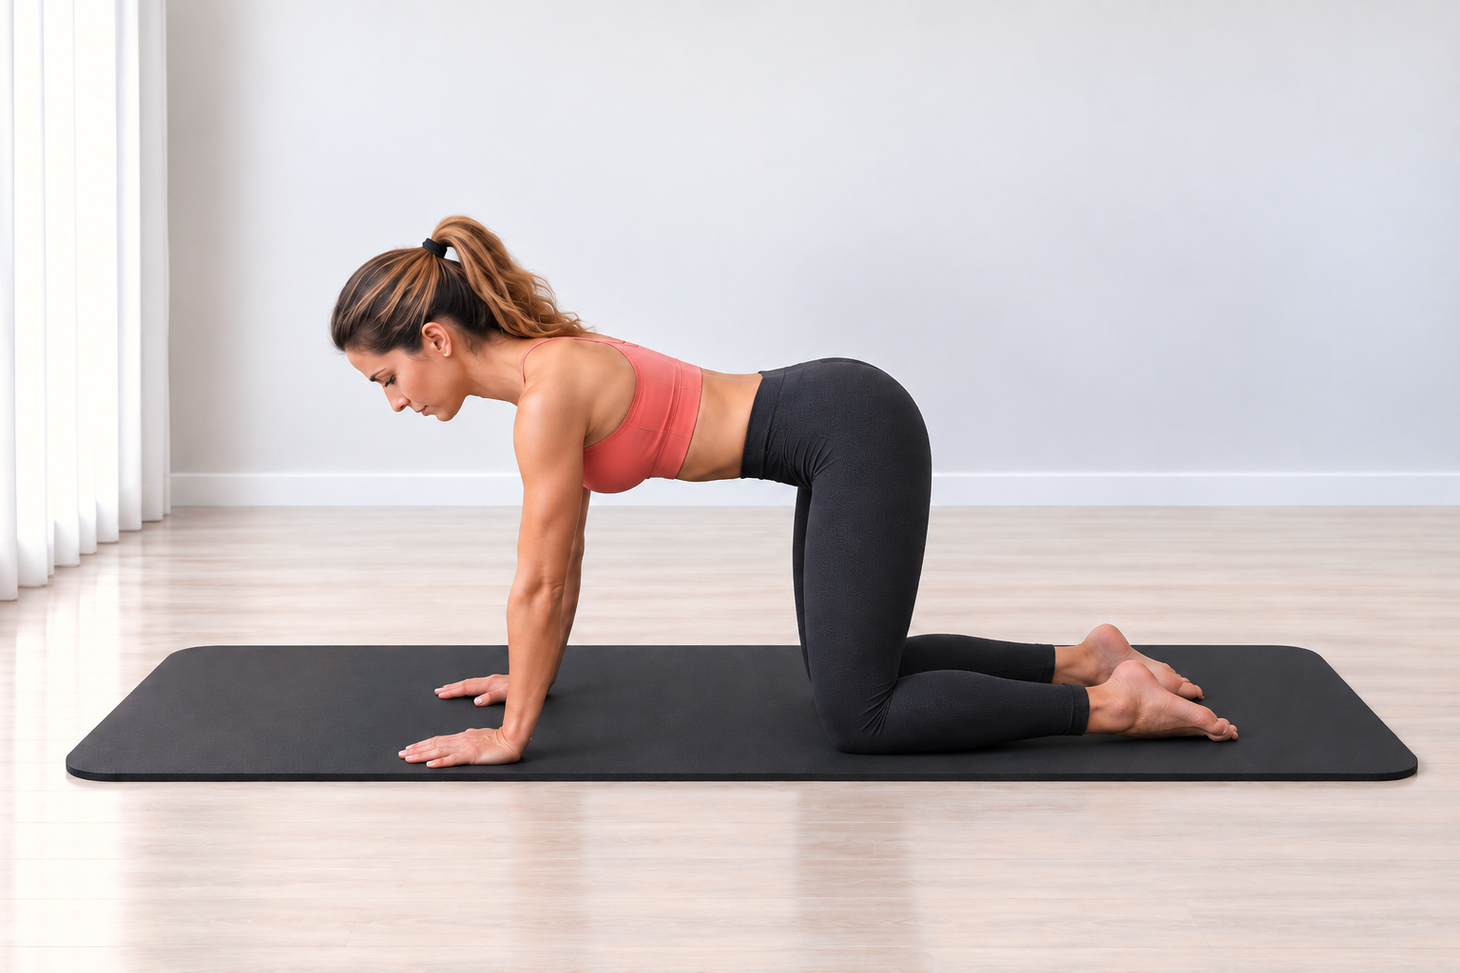
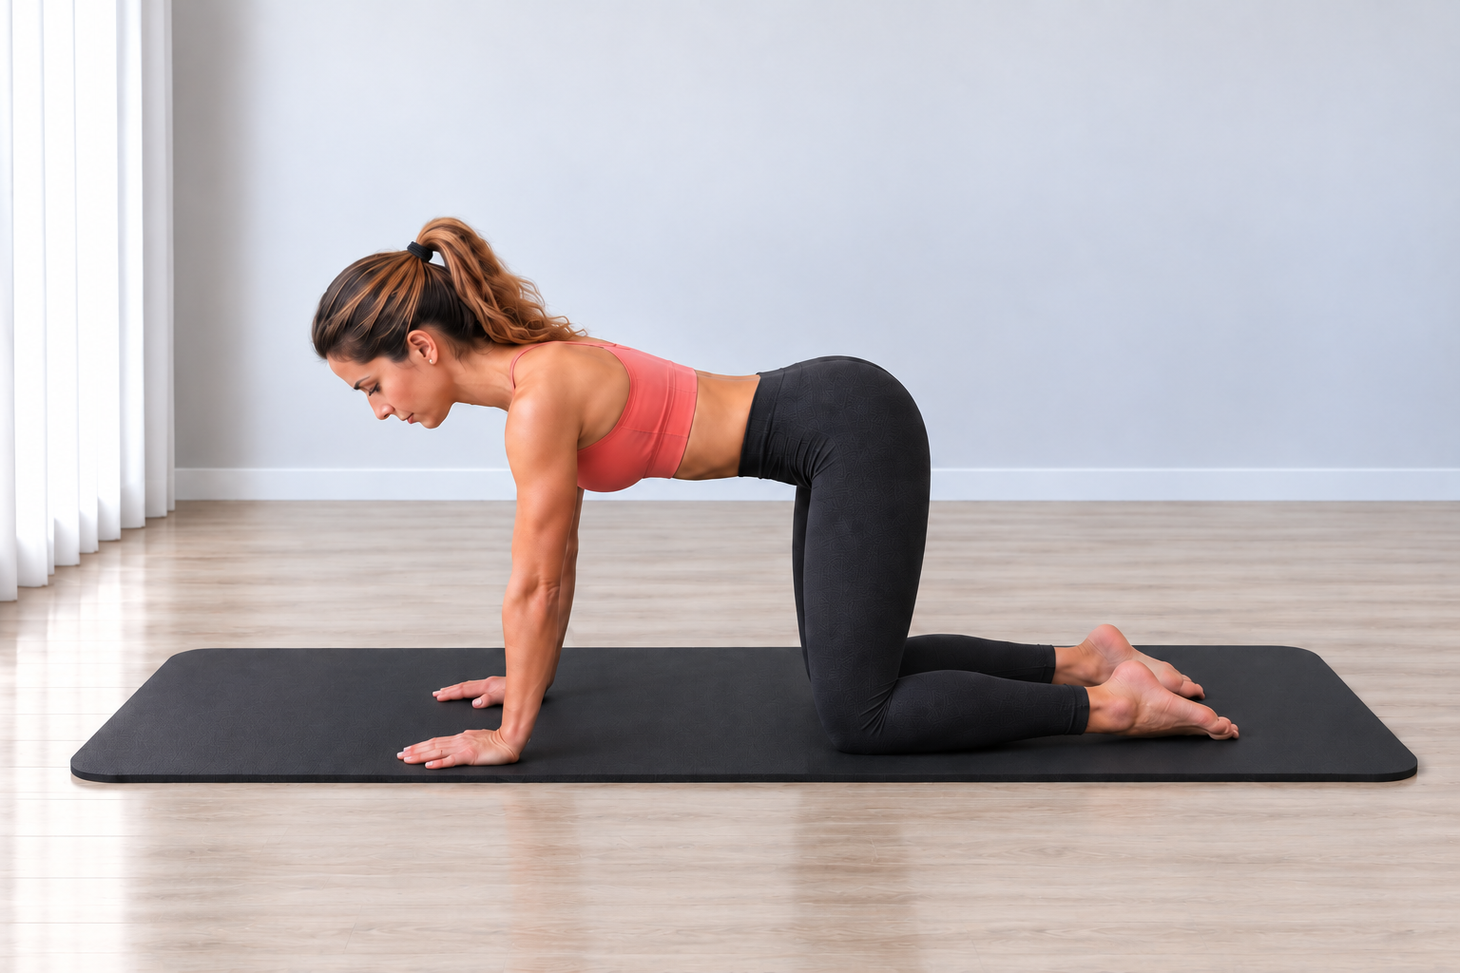
a

Changed region(s): [[0.0, 0.0, 1.0, 1.0], [0.5625, 0.3438, 0.5938, 0.375], [0.0625, 0.7188, 0.0938, 0.75]]

diff --git a/app.js b/app.js
@@ -1,6 +1,6 @@
 (function(){
 const app=document.getElementById('app'),data=window.PB40_DATA;
-const APP_VERSION='v59.196-dev';
+const APP_VERSION='v59.197-dev';
 const versionEl=document.getElementById('app-version');
 const brandBadge=document.querySelector('.brandBadge');
 const primaryNav=document.querySelector('body > nav');
@@ -756,7 +756,6 @@ const exerciseDetailExhale=Object.freeze({
 });
 const gluteBridgeMarchFlow=Object.freeze(['start','mid','hero','mid','start']);
 const sharedMuscleCards=Object.freeze({
-  coreHipFlexors:Object.freeze({src:'Pilates%20Assets/02_Exercise_Cards/_Muscle_Cards/core_primary_hip_flexors_secondary_muscles_v01.png?v=59205corehipflexors',alt:'Core a flexory kyčle',label:'Core • flexory kyčle'}),
   glutesHamstringsCore:Object.freeze({src:'Pilates%20Assets/02_Exercise_Cards/_Muscle_Cards/glutes_primary_hamstrings_core_secondary_muscles_v01.png?v=59204musclecardsapproved',alt:'Hýždě, hamstringy a střed těla',label:'Hýždě • hamstringy • střed těla'}),
   deltoidsTriceps:Object.freeze({src:'Pilates%20Assets/02_Exercise_Cards/_Muscle_Cards/deltoids_primary_triceps_secondary_muscles_v01.png?v=59205corehipflexors',alt:'Ramena a triceps',label:'Ramena • triceps'}),
   obliquesCore:Object.freeze({src:'Pilates%20Assets/02_Exercise_Cards/_Muscle_Cards/obliques_primary_core_secondary_muscles_v01.png?v=59209muscleprofiles',alt:'Šikmé břišní svaly a střed těla',label:'Šikmé břišní svaly • střed těla'}),
@@ -972,7 +971,6 @@ const referenceExerciseAssets={
     }
   },
   deadbug:{
-    anatomy:sharedMuscleCards.coreHipFlexors,
     start:'Pilates%20Assets/02_Exercise_Cards/Dead%20Bug/dead_bug_start.png?v=59193visual5',
     hero:'Pilates%20Assets/02_Exercise_Cards/Dead%20Bug/dead_bug_hero.png?v=59193visual5',
     end:'Pilates%20Assets/02_Exercise_Cards/Dead%20Bug/dead_bug_start.png?v=59193visual5',
@@ -991,7 +989,6 @@ const referenceExerciseAssets={
     breath:{exhale:exerciseDetailExhale.deadbug}
   },
   toetap:{
-    anatomy:sharedMuscleCards.coreHipFlexors,
     start:'Pilates%20Assets/02_Exercise_Cards/Toe%20Tap/toe_tap_start.png?v=59170todayauditfix',
     hero:'Pilates%20Assets/02_Exercise_Cards/Toe%20Tap/toe_taps_hero.png?v=59170todayauditfix',
     end:'Pilates%20Assets/02_Exercise_Cards/Toe%20Tap/toe_tap_start.png?v=59170todayauditfix',
@@ -1211,7 +1208,6 @@ const referenceExerciseAssets={
     }
   },
   hip_march:{
-    anatomy:sharedMuscleCards.coreHipFlexors,
     start:'Pilates%20Assets/02_Exercise_Cards/Hip%20March/hip_march_start.png',
     hero:'Pilates%20Assets/02_Exercise_Cards/Hip%20March/hip_march_hero.png',
     end:'Pilates%20Assets/02_Exercise_Cards/Hip%20March/hip_march_start.png',
@@ -1601,7 +1597,6 @@ const referenceExerciseAssets={
     }
   },
   scissors:{
-    anatomy:sharedMuscleCards.coreHipFlexors,
     start:'Pilates%20Assets/02_Exercise_Cards/Scissors/scissors_start.png?v=59196sourcebatch4',
     hero:'Pilates%20Assets/02_Exercise_Cards/Scissors/scissors_hero.png?v=59196sourcebatch4',
     mid:'Pilates%20Assets/02_Exercise_Cards/Scissors/scissors_mid.png?v=59196sourcebatch4',
@@ -1628,7 +1623,6 @@ const referenceExerciseAssets={
     }
   },
   hollow:{
-    anatomy:sharedMuscleCards.coreHipFlexors,
     start:'Pilates%20Assets/02_Exercise_Cards/Hollow%20Hold/hollow_hold_start.png?v=59170todayauditfix',
     hero:'Pilates%20Assets/02_Exercise_Cards/Hollow%20Hold/hollow_hold_hero.png?v=59170todayauditfix',
     end:'Pilates%20Assets/02_Exercise_Cards/Hollow%20Hold/hollow_hold_start.png?v=59170todayauditfix',
@@ -1707,7 +1701,6 @@ const referenceExerciseAssets={
     }
   },
   legraises:{
-    anatomy:sharedMuscleCards.coreHipFlexors,
     start:'Pilates%20Assets/02_Exercise_Cards/Leg%20Raises/leg_raises_start.png?v=59198sourcebatch9',
     hero:'Pilates%20Assets/02_Exercise_Cards/Leg%20Raises/leg_raises_hero.png?v=59198sourcebatch9',
     end:'Pilates%20Assets/02_Exercise_Cards/Leg%20Raises/leg_raises_start.png?v=59198sourcebatch9',

diff --git a/index.html b/index.html
@@ -35,6 +35,6 @@
 })();
 </script>
 <script src="data.js?v=59211czechpullover"></script>
-<script src="app.js?v=59212muscleprofiles3"></script>
+<script src="app.js?v=59213rejectedmusclecards"></script>
 </body>
 </html>

diff --git a/00_CHATGPT_START/MASTER/01_DOCUMENTS/EXERCISE_PROGRESS.md b/00_CHATGPT_START/MASTER/01_DOCUMENTS/EXERCISE_PROGRESS.md
@@ -27,7 +27,7 @@ Rozhodující MASTER prostředí: `00_CHATGPT_START/MASTER/02_REFERENCES/ENVIRON
 - 🟡 ROZPRACOVÁNO / MAPPING K OVĚŘENÍ: **0**
 - 🟠 STARÉ PROSTŘEDÍ – K OPRAVĚ: **0**
 - 🔴 CHYBÍ / NOVÝ CVIK: **0**
-- MUSCLE CARD K DOLADĚNÍ: **9**
+- MUSCLE CARD K DOLADĚNÍ: **15**
 - GUIDE/STEP K AKTUALIZACI: **0**
 
 Kontrolní rovnice: **51 + 0 + 0 + 0 = 51**. Aktivní množina obsahuje `dumbbell_pullover` a neobsahuje `swan`.
@@ -45,7 +45,7 @@ Kontrolní rovnice: **51 + 0 + 0 + 0 = 51**. Aktivní množina obsahuje `dumbbel
 | `chest_press` | Tlaky s činkami vleže | 🟢 HOTOVO – NOVÉ PROSTŘEDÍ | `Pilates Assets/02_Exercise_Cards/Chest Press/chest_press_start.png` — NOVÉ PROSTŘEDÍ | `Pilates Assets/02_Exercise_Cards/Chest Press/chest_press_hero.png` — NOVÉ PROSTŘEDÍ | `Pilates Assets/02_Exercise_Cards/Chest Press/chest_press_start.png` — REUSE START | HOTOVO | HOTOVO | HOTOVO | Nic v rozsahu obrazových karet. |
 | `childs_pose` | Pozice dítěte | 🟢 HOTOVO – NOVÉ PROSTŘEDÍ | `Pilates Assets/02_Exercise_Cards/Child's Pose/childs_pose_start.png` — NOVÉ PROSTŘEDÍ | `Pilates Assets/02_Exercise_Cards/Child's Pose/childs_pose_hero.png` — NOVÉ PROSTŘEDÍ | `Pilates Assets/02_Exercise_Cards/Child's Pose/childs_pose_start.png` — REUSE START | HOTOVO | HOTOVO | HOTOVO | Nic v rozsahu obrazových karet. |
 | `clam` | Clamshell | 🟢 HOTOVO – NOVÉ PROSTŘEDÍ | `Pilates Assets/02_Exercise_Cards/Clamshell/clamshell_start.png` — NOVÉ PROSTŘEDÍ | `Pilates Assets/02_Exercise_Cards/Clamshell/clamshell_hero.png` — NOVÉ PROSTŘEDÍ | `Pilates Assets/02_Exercise_Cards/Clamshell/clamshell_start.png` — REUSE START | HOTOVO | HOTOVO | K DOLADĚNÍ | Pouze doladit / schválit přesnou Muscle Card. |
-| `deadbug` | Dead Bug | 🟢 HOTOVO – NOVÉ PROSTŘEDÍ | `Pilates Assets/02_Exercise_Cards/Dead Bug/dead_bug_start.png` — NOVÉ PROSTŘEDÍ | `Pilates Assets/02_Exercise_Cards/Dead Bug/dead_bug_hero.png` — NOVÉ PROSTŘEDÍ | `Pilates Assets/02_Exercise_Cards/Dead Bug/dead_bug_start.png` — REUSE START | HOTOVO | HOTOVO | HOTOVO | Nic v rozsahu obrazových karet. |
+| `deadbug` | Dead Bug | 🟢 HOTOVO – NOVÉ PROSTŘEDÍ | `Pilates Assets/02_Exercise_Cards/Dead Bug/dead_bug_start.png` — NOVÉ PROSTŘEDÍ | `Pilates Assets/02_Exercise_Cards/Dead Bug/dead_bug_hero.png` — NOVÉ PROSTŘEDÍ | `Pilates Assets/02_Exercise_Cards/Dead Bug/dead_bug_start.png` — REUSE START | HOTOVO | HOTOVO | OPEN — bezpečný stav bez Muscle Card | Zamítnutá karta Core / flexory kyčle odstraněna; čeká na ručně schválenou náhradu. |
 | `donkey` | Zanožování v kleku | 🟢 HOTOVO – NOVÉ PROSTŘEDÍ | `Pilates Assets/02_Exercise_Cards/Donkey Kick/donkey_kick_start.png` — NOVÉ PROSTŘEDÍ | `Pilates Assets/02_Exercise_Cards/Donkey Kick/donkey_kick_hero.png` — NOVÉ PROSTŘEDÍ | `Pilates Assets/02_Exercise_Cards/Donkey Kick/donkey_kick_start.png` — REUSE START | HOTOVO | HOTOVO | HOTOVO — `glutes_primary_hamstrings_core_secondary_muscles_v01.png` | Nic v rozsahu obrazových karet. |
 | `dumbbell_pullover` | Přítah činky za hlavu | 🟢 HOTOVO – NOVÉ PROSTŘEDÍ | `Pilates Assets/02_Exercise_Cards/Dumbbell Pullover/Dumbbell Pullover start.png` — NOVÉ PROSTŘEDÍ | `Pilates Assets/02_Exercise_Cards/Dumbbell Pullover/Dumbbell Pullover hero.png` — NOVÉ PROSTŘEDÍ | `Pilates Assets/02_Exercise_Cards/Dumbbell Pullover/Dumbbell Pullover start.png` — REUSE START | HOTOVO | HOTOVO | OPEN | Schválit a zapojit přesnou Muscle Card podle MASTER_ANATOMY; SOURCE/runtime/Guide/Step jsou hotové. |
 | `figure_four` | Protažení hýždí vleže | 🟢 HOTOVO – NOVÉ PROSTŘEDÍ | `Pilates Assets/02_Exercise_Cards/Figure Four Stretch/figure_four_stretch_start.png` — NOVÉ PROSTŘEDÍ | `Pilates Assets/02_Exercise_Cards/Figure Four Stretch/figure_four_stretch_hero.png` — NOVÉ PROSTŘEDÍ | `Pilates Assets/02_Exercise_Cards/Figure Four Stretch/figure_four_stretch_start.png` — REUSE START | HOTOVO | HOTOVO | HOTOVO — `glutes_lateral_glutes_primary_muscles_v01.png` | Nic v rozsahu obrazových karet. |
@@ -54,13 +54,13 @@ Kontrolní rovnice: **51 + 0 + 0 + 0 = 51**. Aktivní množina obsahuje `dumbbel
 | `hamstring_supine` | Jemné protažení zadní strany stehna | 🟢 HOTOVO – NOVÉ PROSTŘEDÍ | `Pilates Assets/02_Exercise_Cards/Hamstring Stretch/hamstring_stretch_start.png` — NOVÉ PROSTŘEDÍ | `Pilates Assets/02_Exercise_Cards/Hamstring Stretch/hamstring_stretch_hero.png` — NOVÉ PROSTŘEDÍ | `Pilates Assets/02_Exercise_Cards/Hamstring Stretch/hamstring_stretch_start.png` — REUSE START | HOTOVO | HOTOVO | HOTOVO — `hamstrings_primary_muscles_v01.png` | Nic v rozsahu obrazových karet. |
 | `heeltaps` | Heel Taps | 🟢 HOTOVO – NOVÉ PROSTŘEDÍ | `Pilates Assets/02_Exercise_Cards/Heel Taps/heel_taps_start.png` — NOVÉ PROSTŘEDÍ | `Pilates Assets/02_Exercise_Cards/Heel Taps/heel_taps_hero.png` — NOVÉ PROSTŘEDÍ | `Pilates Assets/02_Exercise_Cards/Heel Taps/heel_taps_start.png` — REUSE START | HOTOVO | HOTOVO | HOTOVO | Nic v rozsahu obrazových karet. |
 | `hip` | Most | 🟢 HOTOVO – NOVÉ PROSTŘEDÍ | `Pilates Assets/02_Exercise_Cards/Glute Bridge/glute_bridge_start.png` — NOVÉ PROSTŘEDÍ | `Pilates Assets/02_Exercise_Cards/Glute Bridge/glute_bridge_hero.png` — NOVÉ PROSTŘEDÍ | `Pilates Assets/02_Exercise_Cards/Glute Bridge/glute_bridge_start.png` — REUSE START | HOTOVO | HOTOVO | HOTOVO — `glutes_primary_hamstrings_core_secondary_muscles_v01.png` | Nic v rozsahu obrazových karet. |
-| `hip_march` | Pochod vleže | 🟢 HOTOVO – NOVÉ PROSTŘEDÍ | `Pilates Assets/02_Exercise_Cards/Hip March/hip_march_start.png` — NOVÉ PROSTŘEDÍ | `Pilates Assets/02_Exercise_Cards/Hip March/hip_march_hero.png` — NOVÉ PROSTŘEDÍ | `Pilates Assets/02_Exercise_Cards/Hip March/hip_march_start.png` — REUSE START | HOTOVO | HOTOVO | HOTOVO | Nic v rozsahu obrazových karet. |
-| `hollow` | Hollow Hold | 🟢 HOTOVO – NOVÉ PROSTŘEDÍ | `Pilates Assets/02_Exercise_Cards/Hollow Hold/hollow_hold_start.png` — NOVÉ PROSTŘEDÍ | `Pilates Assets/02_Exercise_Cards/Hollow Hold/hollow_hold_hero.png` — NOVÉ PROSTŘEDÍ | `Pilates Assets/02_Exercise_Cards/Hollow Hold/hollow_hold_start.png` — REUSE START | HOTOVO | HOTOVO | HOTOVO | Nic v rozsahu obrazových karet. |
+| `hip_march` | Pochod vleže | 🟢 HOTOVO – NOVÉ PROSTŘEDÍ | `Pilates Assets/02_Exercise_Cards/Hip March/hip_march_start.png` — NOVÉ PROSTŘEDÍ | `Pilates Assets/02_Exercise_Cards/Hip March/hip_march_hero.png` — NOVÉ PROSTŘEDÍ | `Pilates Assets/02_Exercise_Cards/Hip March/hip_march_start.png` — REUSE START | HOTOVO | HOTOVO | OPEN — bezpečný stav bez Muscle Card | Zamítnutá karta Core / flexory kyčle odstraněna; čeká na ručně schválenou náhradu. |
+| `hollow` | Hollow Hold | 🟢 HOTOVO – NOVÉ PROSTŘEDÍ | `Pilates Assets/02_Exercise_Cards/Hollow Hold/hollow_hold_start.png` — NOVÉ PROSTŘEDÍ | `Pilates Assets/02_Exercise_Cards/Hollow Hold/hollow_hold_hero.png` — NOVÉ PROSTŘEDÍ | `Pilates Assets/02_Exercise_Cards/Hollow Hold/hollow_hold_start.png` — REUSE START | HOTOVO | HOTOVO | OPEN — bezpečný stav bez Muscle Card | Zamítnutá karta Core / flexory kyčle odstraněna; čeká na ručně schválenou náhradu. |
 | `hundred` | Kmity pažemi vleže | 🟢 HOTOVO – NOVÉ PROSTŘEDÍ | `Pilates Assets/02_Exercise_Cards/The Hundred/hundred_start.png` — NOVÉ PROSTŘEDÍ | `Pilates Assets/02_Exercise_Cards/The Hundred/hundred_hero.png` — NOVÉ PROSTŘEDÍ | `Pilates Assets/02_Exercise_Cards/The Hundred/hundred_start.png` — REUSE START | HOTOVO | HOTOVO | HOTOVO | Nic v rozsahu obrazových karet. |
 | `hydrant` | Fire Hydrant | 🟢 HOTOVO – NOVÉ PROSTŘEDÍ | `Pilates Assets/02_Exercise_Cards/Fire Hydrant/fire_hydrant_start.png` — NOVÉ PROSTŘEDÍ | `Pilates Assets/02_Exercise_Cards/Fire Hydrant/fire_hydrant_hero.png` — NOVÉ PROSTŘEDÍ | `Pilates Assets/02_Exercise_Cards/Fire Hydrant/fire_hydrant_start.png` — REUSE START | HOTOVO | HOTOVO | HOTOVO | Nic v rozsahu obrazových karet. |
 | `inner_thigh` | Zdvihy spodní nohy | 🟢 HOTOVO – NOVÉ PROSTŘEDÍ | `Pilates Assets/02_Exercise_Cards/Inner Thigh Lift/inner_thigh_lift_start.png` — NOVÉ PROSTŘEDÍ | `Pilates Assets/02_Exercise_Cards/Inner Thigh Lift/inner_thigh_lift_hero.png` — NOVÉ PROSTŘEDÍ | `Pilates Assets/02_Exercise_Cards/Inner Thigh Lift/inner_thigh_lift_start.png` — REUSE START | HOTOVO | HOTOVO | HOTOVO | Nic v rozsahu obrazových karet. |
 | `knee_pushup` | Kliky na kolenou | 🟢 HOTOVO – NOVÉ PROSTŘEDÍ | `Pilates Assets/02_Exercise_Cards/Knee Push-Up/knee_push_up_start.png` — NOVÉ PROSTŘEDÍ | `Pilates Assets/02_Exercise_Cards/Knee Push-Up/knee_push_up_hero.png` — NOVÉ PROSTŘEDÍ | `Pilates Assets/02_Exercise_Cards/Knee Push-Up/knee_push_up_start.png` — REUSE START | HOTOVO | HOTOVO | HOTOVO | Nic v rozsahu obrazových karet. |
-| `legraises` | Leg Raises | 🟢 HOTOVO – NOVÉ PROSTŘEDÍ | `Pilates Assets/02_Exercise_Cards/Leg Raises/leg_raises_start.png` — NOVÉ PROSTŘEDÍ | `Pilates Assets/02_Exercise_Cards/Leg Raises/leg_raises_hero.png` — NOVÉ PROSTŘEDÍ | `Pilates Assets/02_Exercise_Cards/Leg Raises/leg_raises_start.png` — REUSE START | HOTOVO | HOTOVO | HOTOVO | Nic v rozsahu obrazových karet. |
+| `legraises` | Leg Raises | 🟢 HOTOVO – NOVÉ PROSTŘEDÍ | `Pilates Assets/02_Exercise_Cards/Leg Raises/leg_raises_start.png` — NOVÉ PROSTŘEDÍ | `Pilates Assets/02_Exercise_Cards/Leg Raises/leg_raises_hero.png` — NOVÉ PROSTŘEDÍ | `Pilates Assets/02_Exercise_Cards/Leg Raises/leg_raises_start.png` — REUSE START | HOTOVO | HOTOVO | OPEN — bezpečný stav bez Muscle Card | Zamítnutá karta Core / flexory kyčle odstraněna; čeká na ručně schválenou náhradu. |
 | `mermaid` | Mermaid Stretch | 🟢 HOTOVO – NOVÉ PROSTŘEDÍ | `Pilates Assets/02_Exercise_Cards/Mermaid Stretch/mermaid_stretch_start.png` — NOVÉ PROSTŘEDÍ | `Pilates Assets/02_Exercise_Cards/Mermaid Stretch/mermaid_stretch_hero.png` — NOVÉ PROSTŘEDÍ | `Pilates Assets/02_Exercise_Cards/Mermaid Stretch/mermaid_stretch_start.png` — REUSE START | HOTOVO | HOTOVO | HOTOVO | Nic v rozsahu obrazových karet. |
 | `plank` | Prkno na předloktích | 🟢 HOTOVO – NOVÉ PROSTŘEDÍ | `Pilates Assets/02_Exercise_Cards/Forearm Plank/forearm_plank_start.png` — NOVÉ PROSTŘEDÍ | `Pilates Assets/02_Exercise_Cards/Forearm Plank/forearm_plank_start.png` — REUSE START | `Pilates Assets/02_Exercise_Cards/Forearm Plank/forearm_plank_start.png` — REUSE START | HOTOVO | HOTOVO | HOTOVO | Nic v rozsahu obrazových karet. |
 | `plie` | Plié Squat | 🟢 HOTOVO – NOVÉ PROSTŘEDÍ | `Pilates Assets/02_Exercise_Cards/Plie Squat/plie_squat_start.png` — NOVÉ PROSTŘEDÍ | `Pilates Assets/02_Exercise_Cards/Plie Squat/plie_squat_hero.png` — NOVÉ PROSTŘEDÍ | `Pilates Assets/02_Exercise_Cards/Plie Squat/plie_squat_start.png` — REUSE START | HOTOVO | HOTOVO | HOTOVO | Nic v rozsahu obrazových karet. |
@@ -72,7 +72,7 @@ Kontrolní rovnice: **51 + 0 + 0 + 0 = 51**. Aktivní množina obsahuje `dumbbel
 | `rollup` | Rolování do sedu | 🟢 HOTOVO – NOVÉ PROSTŘEDÍ | `Pilates Assets/02_Exercise_Cards/Roll Up/roll_up_start.png` — NOVÉ PROSTŘEDÍ | `Pilates Assets/02_Exercise_Cards/Roll Up/roll_up_hero.png` — NOVÉ PROSTŘEDÍ | `Pilates Assets/02_Exercise_Cards/Roll Up/roll_up_start.png` — REUSE START | HOTOVO | HOTOVO | HOTOVO | Nic v rozsahu obrazových karet. |
 | `row` | Bent Over Row | 🟢 HOTOVO – NOVÉ PROSTŘEDÍ | `Pilates Assets/02_Exercise_Cards/Bent Over Row/bent_over_row_start.png` — NOVÉ PROSTŘEDÍ | `Pilates Assets/02_Exercise_Cards/Bent Over Row/bent_over_row_hero.png` — NOVÉ PROSTŘEDÍ | `Pilates Assets/02_Exercise_Cards/Bent Over Row/bent_over_row_start.png` — REUSE START | HOTOVO | HOTOVO | HOTOVO | Nic v rozsahu obrazových karet. |
 | `russian` | Rotace trupu v sedu | 🟢 HOTOVO – NOVÉ PROSTŘEDÍ | `Pilates Assets/02_Exercise_Cards/Russian Twist/russian_twist_start.png` — NOVÉ PROSTŘEDÍ | `Pilates Assets/02_Exercise_Cards/Russian Twist/russian_twist_hero.png` — NOVÉ PROSTŘEDÍ | `Pilates Assets/02_Exercise_Cards/Russian Twist/russian_twist_start.png` — REUSE START | HOTOVO | HOTOVO | OPEN | SOURCE/runtime/Guide/Step jsou hotové; schválit Muscle Card podle nového MASTER systému. |
-| `scissors` | Nůžky | 🟢 HOTOVO – NOVÉ PROSTŘEDÍ | `Pilates Assets/02_Exercise_Cards/Scissors/scissors_start.png` — NOVÉ PROSTŘEDÍ | `Pilates Assets/02_Exercise_Cards/Scissors/scissors_hero.png` — NOVÉ PROSTŘEDÍ | `Pilates Assets/02_Exercise_Cards/Scissors/scissors_start.png` — REUSE START | HOTOVO | HOTOVO | HOTOVO | Nic v rozsahu obrazových karet. |
+| `scissors` | Nůžky | 🟢 HOTOVO – NOVÉ PROSTŘEDÍ | `Pilates Assets/02_Exercise_Cards/Scissors/scissors_start.png` — NOVÉ PROSTŘEDÍ | `Pilates Assets/02_Exercise_Cards/Scissors/scissors_hero.png` — NOVÉ PROSTŘEDÍ | `Pilates Assets/02_Exercise_Cards/Scissors/scissors_start.png` — REUSE START | HOTOVO | HOTOVO | OPEN — bezpečný stav bez Muscle Card | Zamítnutá karta Core / flexory kyčle odstraněna; čeká na ručně schválenou náhradu. |
 | `sidekick` | Side Kick | 🟢 HOTOVO – NOVÉ PROSTŘEDÍ | `Pilates Assets/02_Exercise_Cards/Side Kick/side_kick_start.png` — NOVÉ PROSTŘEDÍ | `Pilates Assets/02_Exercise_Cards/Side Kick/side_kick_hero.png` — NOVÉ PROSTŘEDÍ | `Pilates Assets/02_Exercise_Cards/Side Kick/side_kick_end.png` — NOVÉ PROSTŘEDÍ | HOTOVO | HOTOVO | K DOLADĚNÍ | Pouze doladit / schválit přesnou Muscle Card. |
 | `sideleg` | Unožování vleže na boku | 🟢 HOTOVO – NOVÉ PROSTŘEDÍ | `Pilates Assets/02_Exercise_Cards/Side Leg Lift/side_leg_start.png` — NOVÉ PROSTŘEDÍ | `Pilates Assets/02_Exercise_Cards/Side Leg Lift/side_leg_lift_hero.png` — NOVÉ PROSTŘEDÍ | `Pilates Assets/02_Exercise_Cards/Side Leg Lift/side_leg_start.png` — REUSE START | HOTOVO | HOTOVO | K DOLADĚNÍ | Pouze doladit / schválit přesnou Muscle Card. |
 | `sideplank` | Side Plank | 🟢 HOTOVO – NOVÉ PROSTŘEDÍ | `Pilates Assets/02_Exercise_Cards/Side Plank/side_plank_start.png` — NOVÉ PROSTŘEDÍ | `Pilates Assets/02_Exercise_Cards/Side Plank/side_plank_hero.png` — NOVÉ PROSTŘEDÍ | `Pilates Assets/02_Exercise_Cards/Side Plank/side_plank_start.png` — REUSE START | HOTOVO | HOTOVO | HOTOVO | Nic v rozsahu obrazových karet. |
@@ -85,7 +85,7 @@ Kontrolní rovnice: **51 + 0 + 0 + 0 = 51**. Aktivní množina obsahuje `dumbbel
 | `swimming` | Swimming | 🟢 HOTOVO – NOVÉ PROSTŘEDÍ | `Pilates Assets/02_Exercise_Cards/Swimming/swimming_start.png` — NOVÉ PROSTŘEDÍ | `Pilates Assets/02_Exercise_Cards/Swimming/swimming_hero.png` — NOVÉ PROSTŘEDÍ | `Pilates Assets/02_Exercise_Cards/Swimming/swimming_start.png` — REUSE START | HOTOVO | HOTOVO | HOTOVO | Bezverzové SOURCE jsou aktivní; Guide/Step byly aktualizovány pouze novými fotografiemi. |
 | `tap` | Plank Shoulder Taps | 🟢 HOTOVO – NOVÉ PROSTŘEDÍ | `Pilates Assets/02_Exercise_Cards/Plank Shoulder Taps/plank_shoulder_taps_start.png` — NOVÉ PROSTŘEDÍ | `Pilates Assets/02_Exercise_Cards/Plank Shoulder Taps/plank_shoulder_taps_hero.png` — NOVÉ PROSTŘEDÍ | `Pilates Assets/02_Exercise_Cards/Plank Shoulder Taps/plank_shoulder_taps_start.png` — REUSE START | HOTOVO | HOTOVO | HOTOVO | Nic v rozsahu obrazových karet. |
 | `thread` | Protažení s rotací v kleku | 🟢 HOTOVO – NOVÉ PROSTŘEDÍ | `Pilates Assets/02_Exercise_Cards/Thread the Needle/thread_the_needle_start.png` — NOVÉ PROSTŘEDÍ | `Pilates Assets/02_Exercise_Cards/Thread the Needle/thread_the_needle_hero.png` — NOVÉ PROSTŘEDÍ | `Pilates Assets/02_Exercise_Cards/Thread the Needle/thread_the_needle_start.png` — REUSE START | HOTOVO | HOTOVO | K DOLADĚNÍ | Pouze doladit / schválit přesnou Muscle Card. |
-| `toetap` | Toe Taps | 🟢 HOTOVO – NOVÉ PROSTŘEDÍ | `Pilates Assets/02_Exercise_Cards/Toe Tap/toe_tap_start.png` — NOVÉ PROSTŘEDÍ | `Pilates Assets/02_Exercise_Cards/Toe Tap/toe_taps_hero.png` — NOVÉ PROSTŘEDÍ | `Pilates Assets/02_Exercise_Cards/Toe Tap/toe_tap_start.png` — REUSE START | HOTOVO | HOTOVO | HOTOVO | Nic v rozsahu obrazových karet. |
+| `toetap` | Toe Taps | 🟢 HOTOVO – NOVÉ PROSTŘEDÍ | `Pilates Assets/02_Exercise_Cards/Toe Tap/toe_tap_start.png` — NOVÉ PROSTŘEDÍ | `Pilates Assets/02_Exercise_Cards/Toe Tap/toe_taps_hero.png` — NOVÉ PROSTŘEDÍ | `Pilates Assets/02_Exercise_Cards/Toe Tap/toe_tap_start.png` — REUSE START | HOTOVO | HOTOVO | OPEN — bezpečný stav bez Muscle Card | Zamítnutá karta Core / flexory kyčle odstraněna; čeká na ručně schválenou náhradu. |
 | `triceps_kickback` | Triceps Kickback | 🟢 HOTOVO – NOVÉ PROSTŘEDÍ | `Pilates Assets/02_Exercise_Cards/Triceps Kickback/triceps_kickback_start.png` — NOVÉ PROSTŘEDÍ | `Pilates Assets/02_Exercise_Cards/Triceps Kickback/triceps_kickback_hero.png` — NOVÉ PROSTŘEDÍ | `Pilates Assets/02_Exercise_Cards/Triceps Kickback/triceps_kickback_start.png` — REUSE START | HOTOVO | HOTOVO | HOTOVO | Nic v rozsahu obrazových karet. |
 
 ## Fronta práce

diff --git a/00_CHATGPT_START/MASTER/01_DOCUMENTS/MASTER_ANATOMY.md b/00_CHATGPT_START/MASTER/01_DOCUMENTS/MASTER_ANATOMY.md
@@ -207,8 +207,6 @@ glutes_primary_hamstrings_core_secondary_muscles_v01.png
 
 lateral_glutes_primary_core_secondary_muscles_v01.png
 
-core_primary_hip_flexors_secondary_muscles_v01.png
-
 obliques_primary_core_secondary_muscles_v01.png
 
 chest_primary_triceps_shoulders_secondary_muscles_v01.png
@@ -232,7 +230,6 @@ Každá vytvořená kombinace musí být zapsána před nasazením.
 
 | FILE | PRIMARY | SECONDARY | CVIKY | STATUS |
 |---|---|---|---|---|
-| core_primary_hip_flexors_secondary_muscles_v01.png | A01 Core | A03 Flexory kyčle | `deadbug`, `hip_march`, `hollow`, `legraises`, `scissors`, `toetap` | SCHVÁLENO |
 | glutes_primary_hamstrings_core_secondary_muscles_v01.png | A11 Gluteus maximus | A14 Hamstrings + A01 Core | `hip`, `donkey`, `glute_bridge_march` | SCHVÁLENO |
 | deltoids_primary_triceps_secondary_muscles_v01.png | A05 Ramena | A07 Triceps | `press` | SCHVÁLENO |
 | quadriceps_primary_hamstrings_secondary_muscles_v01.png | A13 Quadriceps | A14 Hamstrings | žádný z aktuálních 51 profilů nemá tuto přesnou kombinaci; bez runtime přiřazení | SCHVÁLENO |
@@ -243,6 +240,19 @@ Každá vytvořená kombinace musí být zapsána před nasazením.
 | glutes_primary_core_secondary_muscles_v01.png | A11 Gluteus maximus | A01 Core | `frog` | SCHVÁLENO / NASAZENO |
 | glutes_lateral_glutes_primary_muscles_v01.png | A11 Gluteus maximus + A12 Lateral glutes | — | `figure_four` | SCHVÁLENO / NASAZENO |
 | hamstrings_primary_muscles_v01.png | A14 Hamstrings | — | `hamstring_supine` | SCHVÁLENO / NASAZENO |
+
+## Zamítnuté a odstraněné varianty
+
+Následující varianty byly po vizuálním auditu zamítnuty, jejich PNG odstraněny
+a nesmí být znovu mapovány bez nové ručně schválené náhrady:
+
+- `core_primary_hip_flexors_secondary_muscles_v01.png` — PRIMARY zvýraznění
+  zasahovalo příliš nízko směrem k tříslům a kyčlím. Cviky `deadbug`,
+  `hip_march`, `hollow`, `legraises`, `scissors` a `toetap` jsou dočasně bez
+  Muscle Card a používají bezpečný runtime stav bez obrázku.
+- `lateral_glutes_primary_glutes_hip_flexors_obliques_secondary_muscles_v01.png`
+  — přední PRIMARY zvýraznění vytvářelo nevhodné nízké trojúhelníkové a
+  diagonální pokračování. Varianta nebyla mapována na žádný aktivní cvik.
 
 Schválené runtime PNG jsou uloženy v `Pilates Assets/02_Exercise_Cards/_Muscle_Cards/`. Zdrojovými referencemi systému jsou zamčené `00_CHATGPT_START/MASTER/02_REFERENCES/ANATOMY/MOOVKA_MASTER_BODY_v02.png` a `00_CHATGPT_START/MASTER/02_REFERENCES/ANATOMY/MASTER_BODY_MAP_v02.png`.
 
